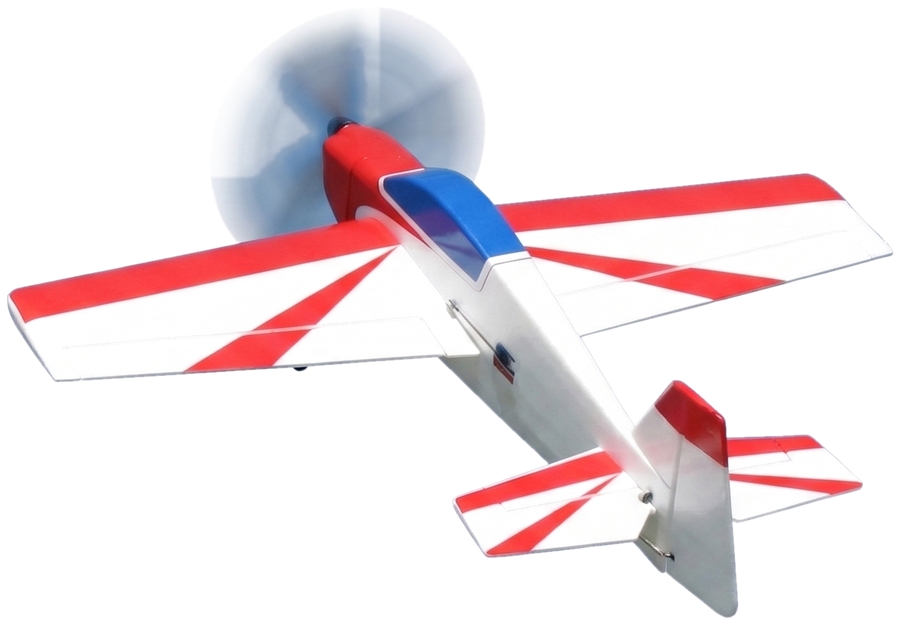
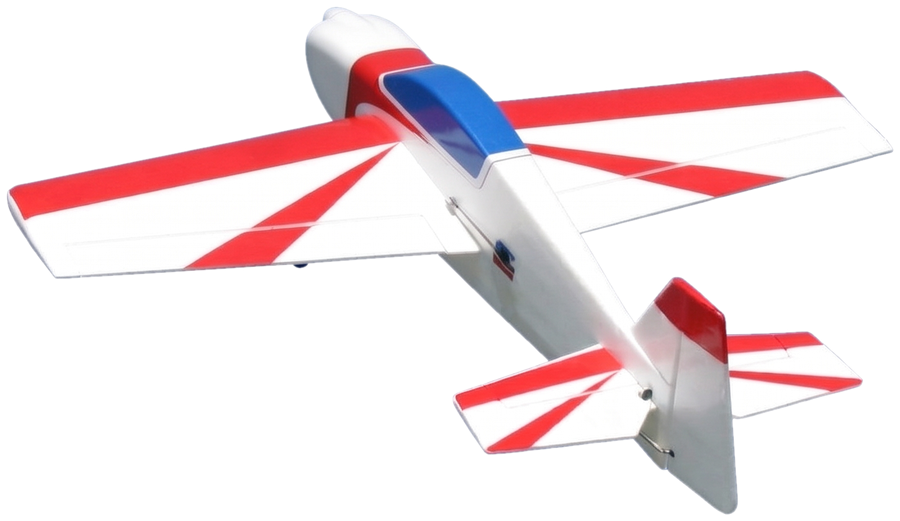
Hero model: updated cut-out (no propeller)

diff --git a/index.html b/index.html
@@ -57,7 +57,7 @@
     <div class="hero__sky" aria-hidden="true"></div>
     <div class="hero__clouds" aria-hidden="true"></div>
 
-    <img class="hero__plane" src="img/hero-plane.png" alt="Пілотажна модель клубу в польоті" width="900" height="625">
+    <img class="hero__plane" src="img/hero-plane.png" alt="Пілотажна модель клубу в польоті" width="900" height="521">
 
     <button class="hero__arrow hero__arrow--prev" aria-label="Попередній слайд">&#8249;</button>
     <button class="hero__arrow hero__arrow--next" aria-label="Наступний слайд">&#8250;</button>
